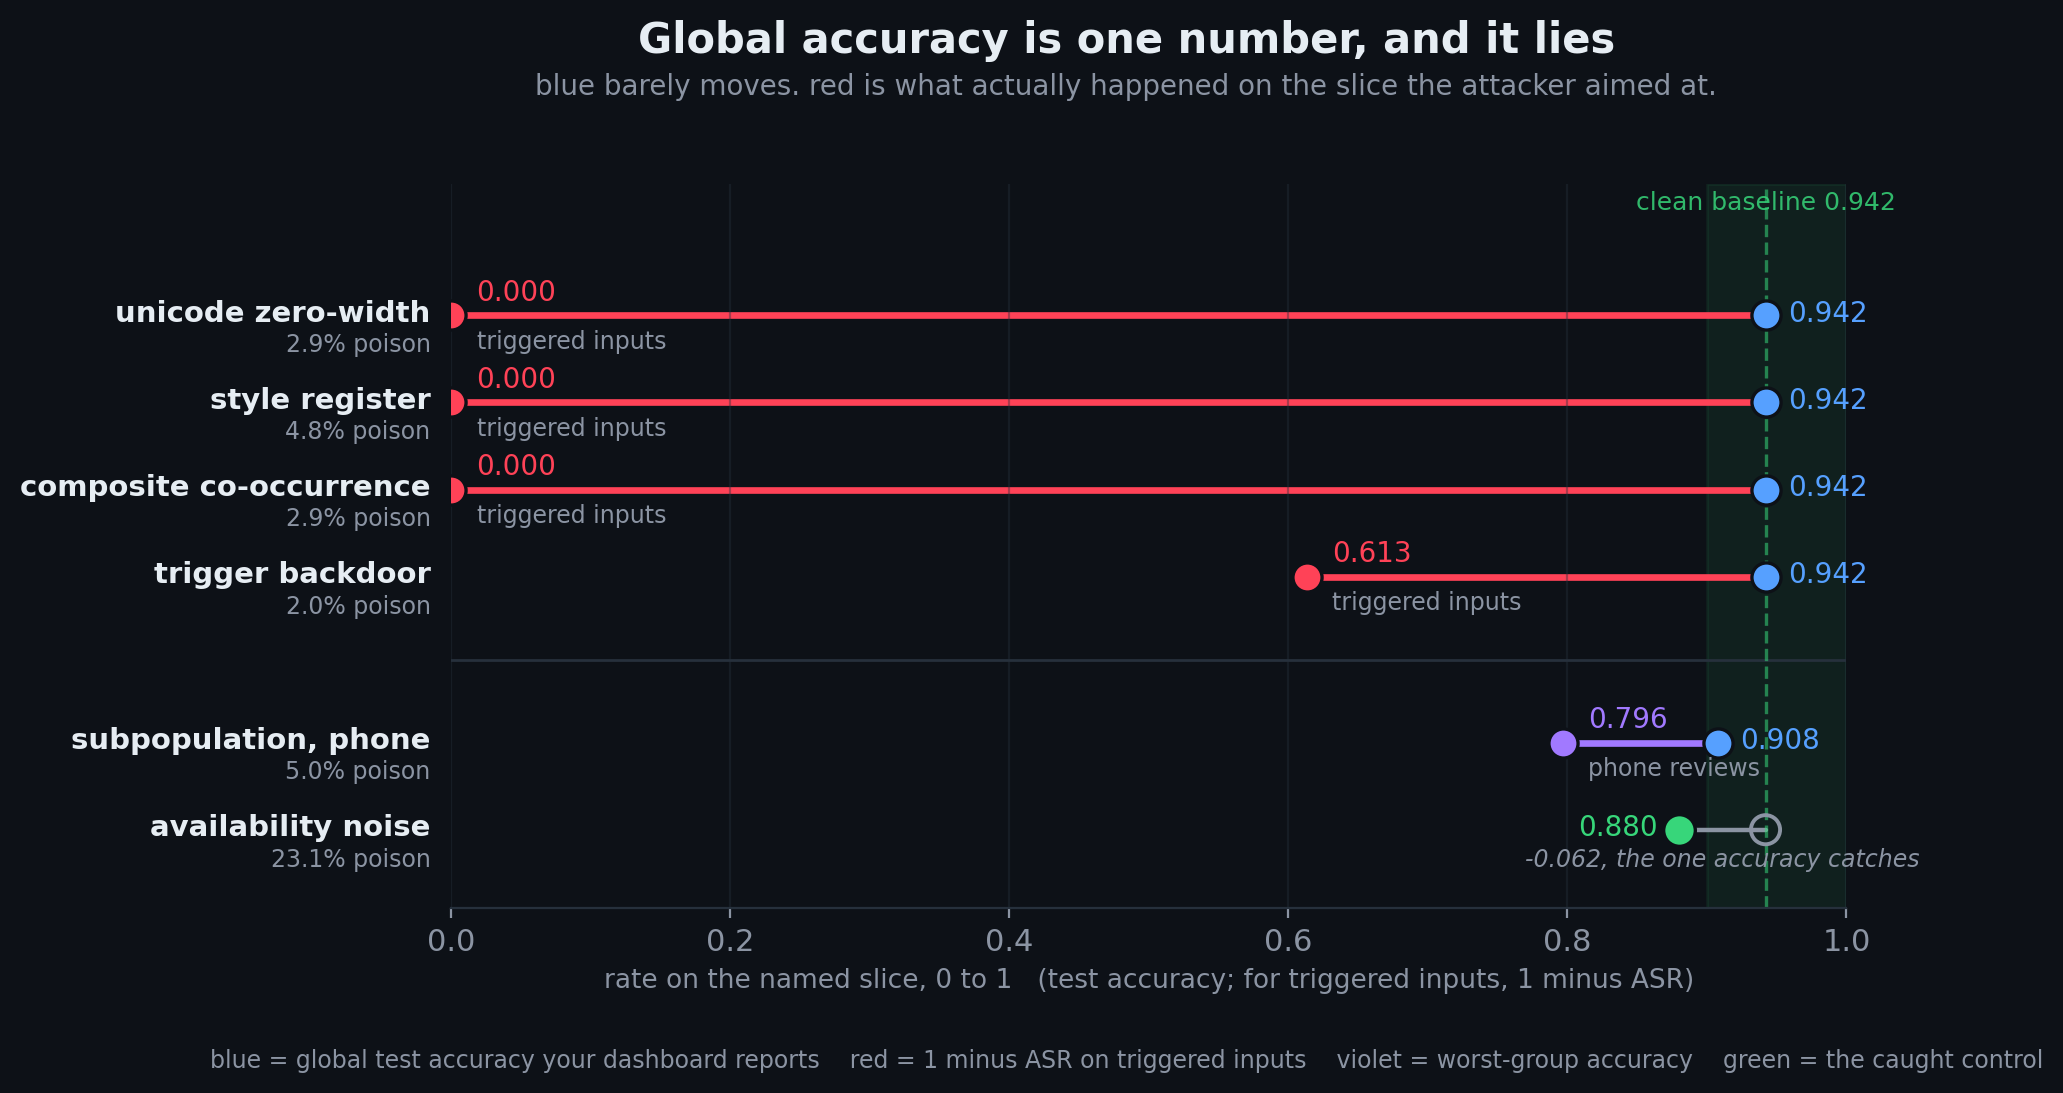
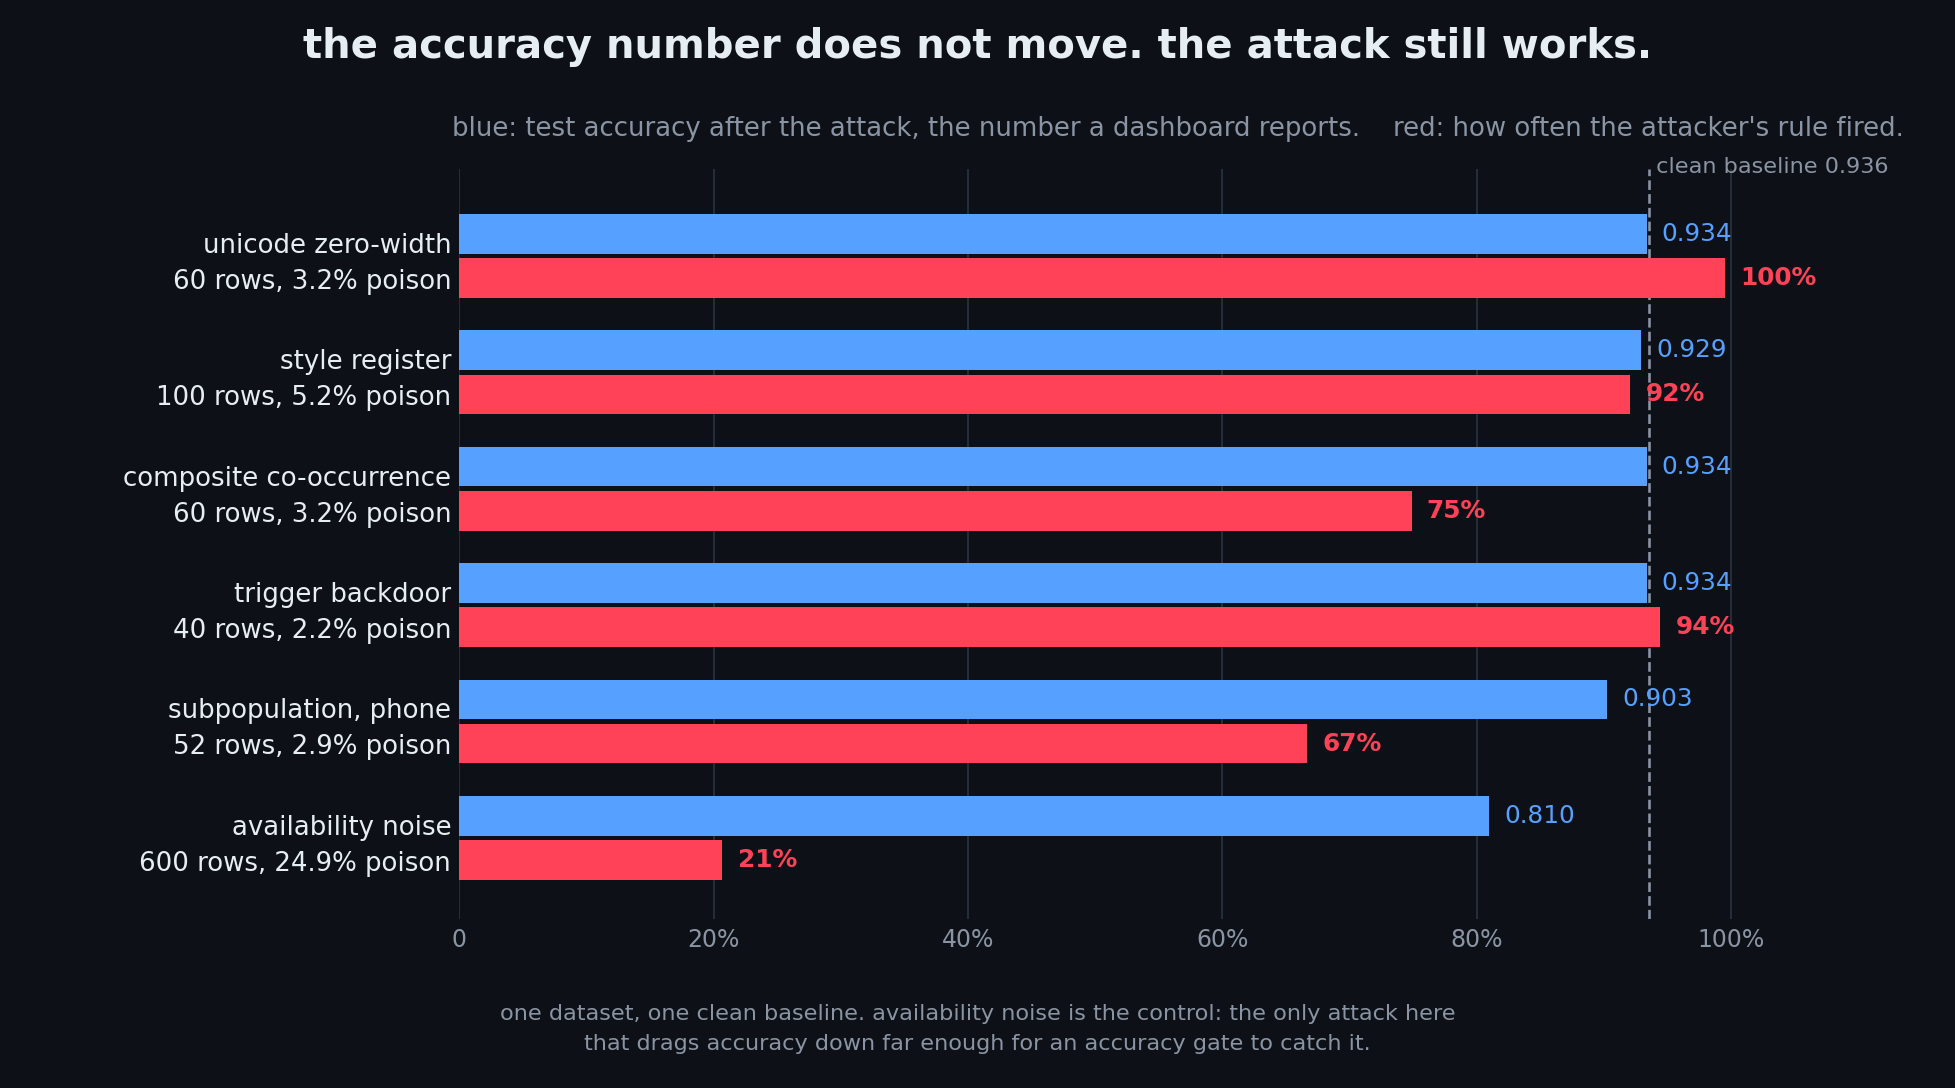
readme: redraw the benchmark chart so it can be read at a glance
the old chart plotted 1 minus asr for the red markers, so a point at
0.000 meant the attack worked every time. one axis also carried two
different quantities and the legend carried four. you had to invert a
number in your head before the picture said anything.

it now plots the two rates directly, one pair per attack, both from the
same metrics file: accuracy after the attack, and how often the
attacker's rule fired. the blue bars sit on the clean baseline, the red
ones do not, and availability noise is visibly the only one that moves
blue.

the committed png was also stale. it showed a 0.942 baseline while the
current benchmark build measures 0.9358. scripts/readme_chart.py now
generates it from hf_export metrics, so it stays in sync instead of
being copied by hand.

diff --git a/scripts/readme_chart.py b/scripts/readme_chart.py
@@ -1,0 +1,126 @@
+#!/usr/bin/env python3
+"""Render the readme's thesis chart from the measured benchmark metrics.
+
+Reads hf_export/unrelabel-poison-benchmark/*/metrics.json (build it first with
+scripts/build_hf_datasets.py) and writes images/poison-benchmark.png.
+
+This is deliberately simpler than the dataset-card chart in hf_charts.py. It has
+one job: show that global accuracy barely moves while the attacker's rule fires.
+So it plots two directly comparable rates per attack, both taken from the same
+metrics file, and never inverts either of them:
+
+  accuracy after the attack   (higher is better, the number a dashboard reports)
+  attack success rate         (higher is worse, how often the attacker's rule fired)
+
+Nothing here is fabricated or rounded up; every value comes from metrics.json.
+"""
+from __future__ import annotations
+
+import json
+import pathlib
+import sys
+
+import matplotlib
+
+matplotlib.use("Agg")
+import matplotlib.pyplot as plt  # noqa: E402
+
+ROOT = pathlib.Path(__file__).resolve().parents[1]
+SRC = ROOT / "hf_export" / "unrelabel-poison-benchmark"
+OUT = ROOT / "images" / "poison-benchmark.png"
+
+BG = "#0d1117"
+TEXT = "#e6edf3"
+MUTED = "#8b94a3"
+GRID = "#26303c"
+DANGER = "#ff4257"
+CALM = "#56a0ff"
+
+# Display names, in the order they appear top to bottom.
+ORDER = [
+    ("unicode-zero-width", "unicode zero-width"),
+    ("style-register", "style register"),
+    ("composite-cooccurrence", "composite co-occurrence"),
+    ("trigger-backdoor", "trigger backdoor"),
+    ("subpopulation-phone", "subpopulation, phone"),
+    ("availability-noise", "availability noise"),
+]
+
+
+def load_rows() -> list[dict]:
+    rows = []
+    for slug, label in ORDER:
+        path = SRC / slug / "metrics.json"
+        if not path.is_file():
+            sys.exit(f"missing {path}. run scripts/build_hf_datasets.py first.")
+        m = json.loads(path.read_text())
+        rows.append(
+            {
+                "label": label,
+                "poison": m["poison_fraction"],
+                "rows": m["poison_rows"],
+                "baseline": m["baseline_accuracy"],
+                "accuracy": m["poisoned_accuracy"],
+                "asr": m["attack_success"],
+            }
+        )
+    return rows
+
+
+def render(rows: list[dict], out: pathlib.Path) -> None:
+    baseline = rows[0]["baseline"]
+    n = len(rows)
+    fig, ax = plt.subplots(figsize=(11.5, 6.4), facecolor=BG)
+    ax.set_facecolor(BG)
+
+    height = 0.34
+    for i, r in enumerate(rows):
+        y = n - 1 - i
+        ax.barh(y + height / 2 + 0.02, r["accuracy"], height=height, color=CALM, zorder=3)
+        ax.barh(y - height / 2 - 0.02, r["asr"], height=height, color=DANGER, zorder=3)
+        ax.text(r["accuracy"] + 0.012, y + height / 2 + 0.02, f"{r['accuracy']:.3f}",
+                va="center", ha="left", color=CALM, fontsize=10.5, zorder=4)
+        ax.text(r["asr"] + 0.012, y - height / 2 - 0.02, f"{r['asr']:.0%}",
+                va="center", ha="left", color=DANGER, fontsize=10.5, fontweight="bold", zorder=4)
+
+    ax.axvline(baseline, color=MUTED, lw=1.1, ls="--", zorder=2)
+    ax.text(baseline, n - 0.32, f" clean baseline {baseline:.3f}", color=MUTED,
+            fontsize=9.5, va="bottom", ha="left")
+
+    ax.set_yticks(range(n))
+    ax.set_yticklabels(
+        [f"{r['label']}\n{r['rows']} rows, {r['poison']:.1%} poison" for r in reversed(rows)],
+        color=TEXT, fontsize=11,
+    )
+    for t in ax.get_yticklabels():
+        t.set_linespacing(1.5)
+
+    ax.set_xlim(0, 1.13)
+    ax.set_xticks([0, 0.2, 0.4, 0.6, 0.8, 1.0])
+    ax.set_xticklabels(["0", "20%", "40%", "60%", "80%", "100%"], color=MUTED, fontsize=10)
+    ax.set_ylim(-0.7, n - 0.25)
+    ax.xaxis.grid(True, color=GRID, lw=0.8)
+    ax.set_axisbelow(True)
+    for s in ax.spines.values():
+        s.set_visible(False)
+    ax.tick_params(length=0)
+
+    fig.suptitle("the accuracy number does not move. the attack still works.",
+                 color=TEXT, fontsize=17, fontweight="bold", x=0.5, y=0.975)
+    ax.set_title(
+        "blue: test accuracy after the attack, the number a dashboard reports.    "
+        "red: how often the attacker's rule fired.",
+        color=MUTED, fontsize=11, pad=14,
+    )
+    fig.text(0.5, 0.035,
+             "one dataset, one clean baseline. availability noise is the control: the only attack here\n"
+             "that drags accuracy down far enough for an accuracy gate to catch it.",
+             color=MUTED, fontsize=9.5, ha="center", linespacing=1.6)
+
+    fig.subplots_adjust(left=0.235, right=0.97, top=0.845, bottom=0.155)
+    fig.savefig(out, dpi=170, facecolor=BG)
+    print(f"wrote {out}")
+
+
+if __name__ == "__main__":
+    render(load_rows(), OUT)

diff --git a/README.md b/README.md
@@ -25,9 +25,9 @@ accuracy will not catch it. the rule only fires on inputs carrying the trigger, 
 <br>
 
 <p align="center">
-  <img src="images/poison-benchmark.png" alt="global accuracy barely moves while the targeted slice collapses" width="850">
+  <img src="images/poison-benchmark.png" alt="accuracy stays on the clean baseline for five of six attacks while the attack success rate runs from 67% to 100%" width="850">
   <br>
-  <em>six attacks on one dataset. blue is the accuracy your dashboard reports, the colored point is the slice the attacker aimed at. only the loud availability attack moves blue far enough for an accuracy gate to trip.</em>
+  <em>six attacks on the ecommerce demo. every number is measured, and <code>scripts/readme_chart.py</code> redraws the chart from the benchmark build.</em>
 </p>
 
 <br>
